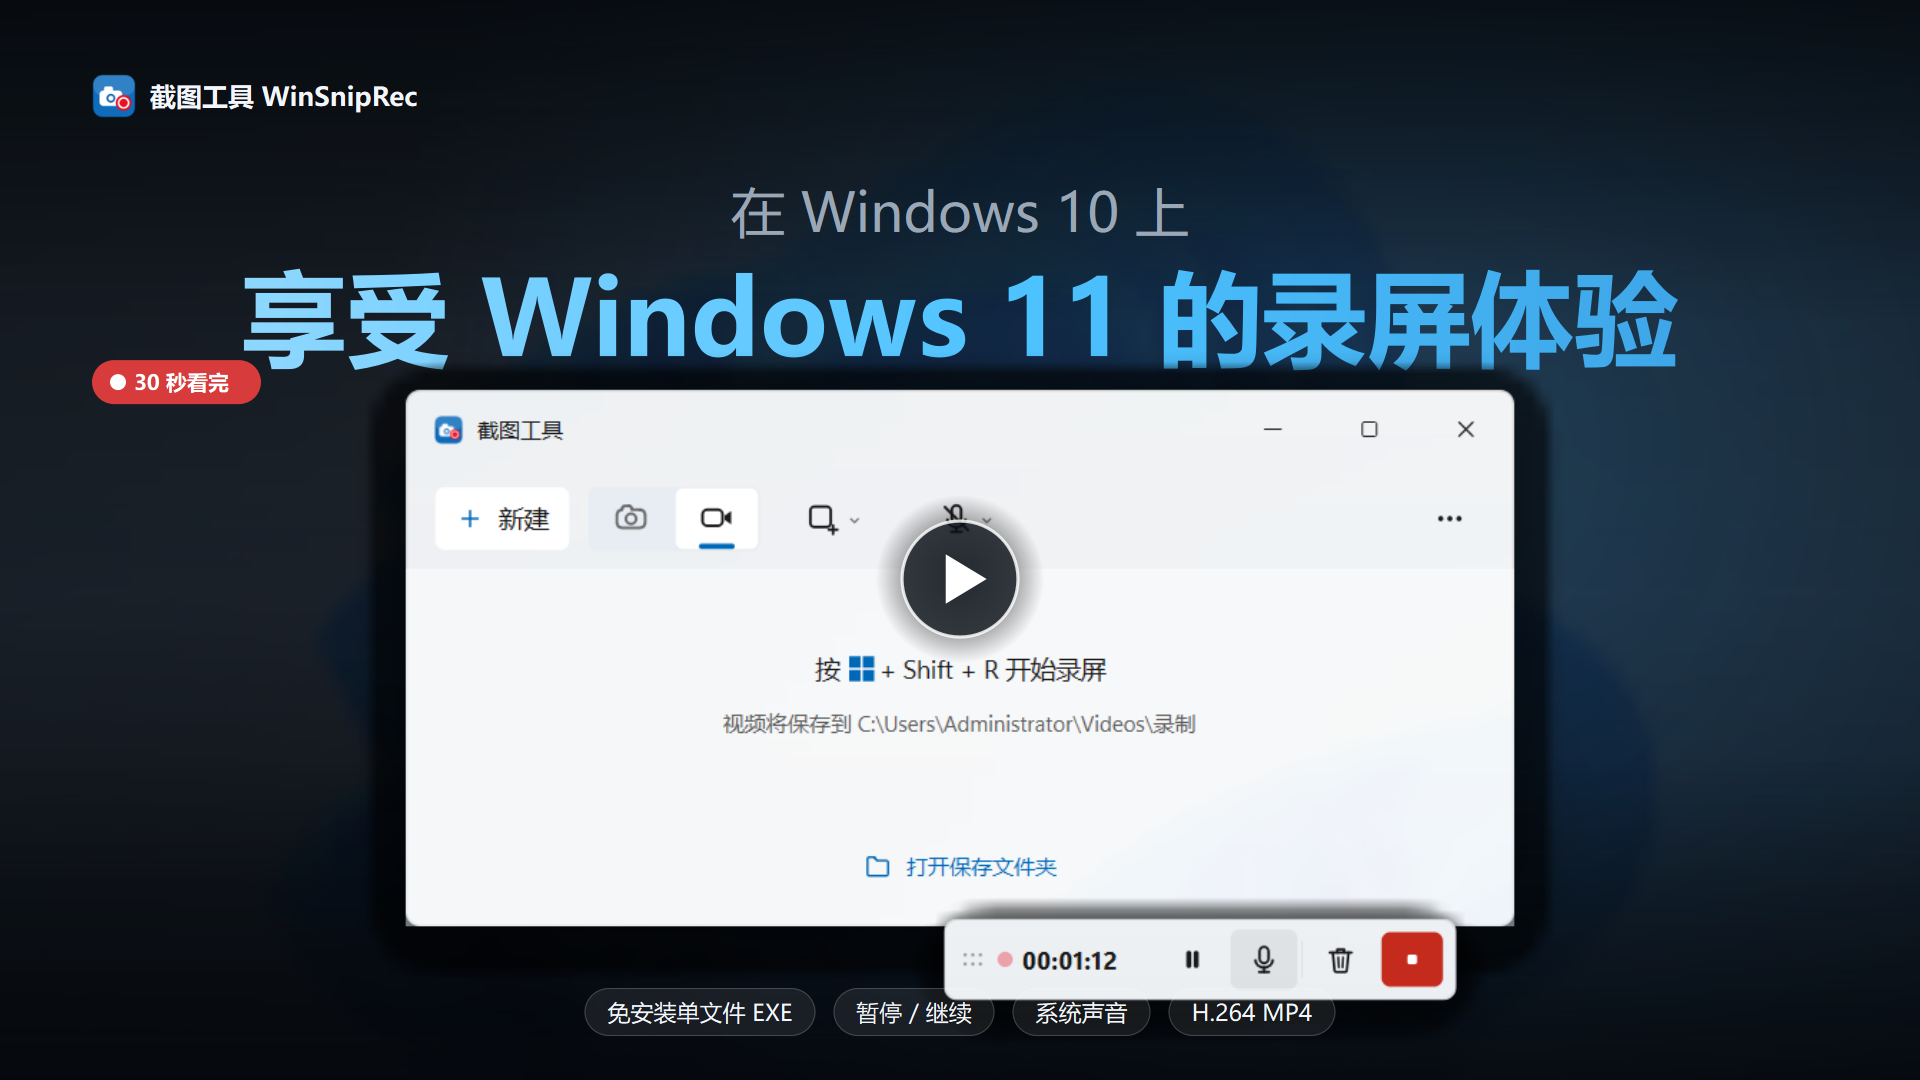
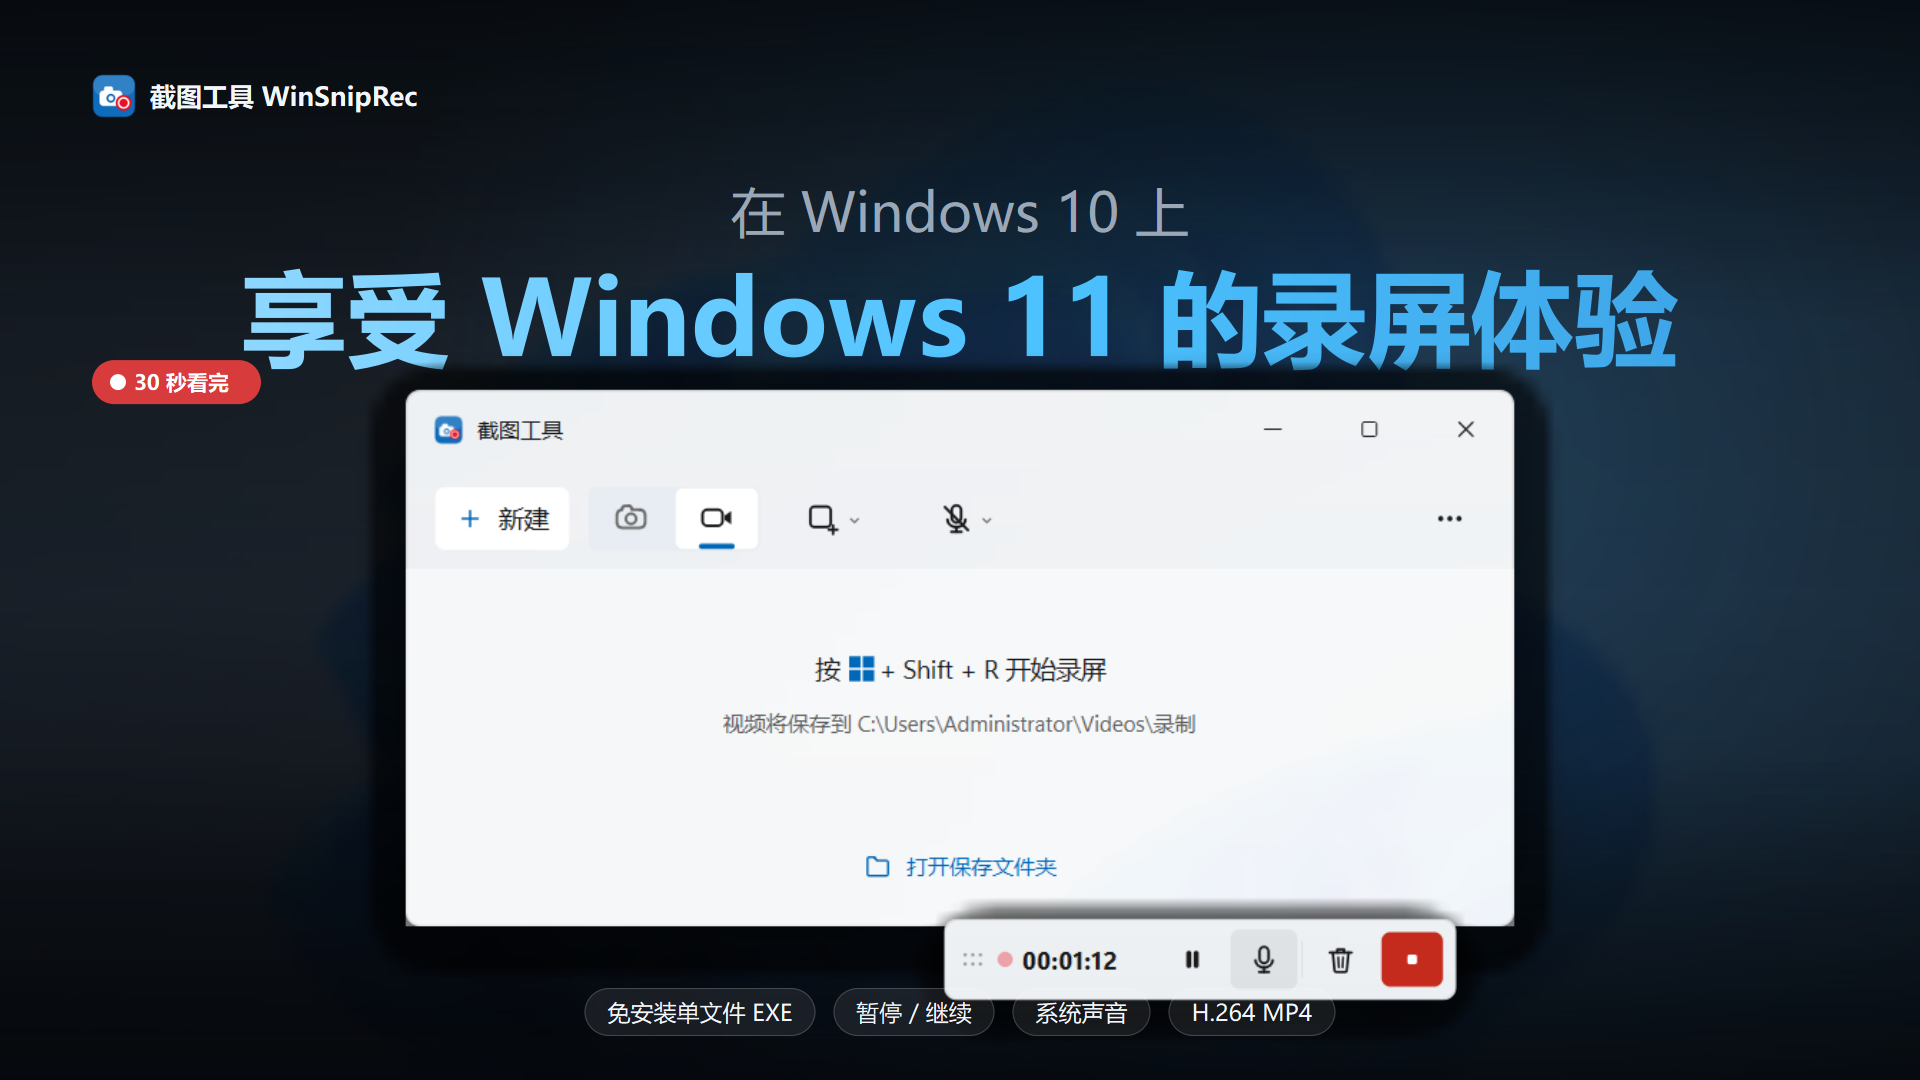
封面去掉中间的播放键
按反馈移除窗口中央的播放按钮：它压在应用的快捷键提示文字上，而且平台通常会
自己叠加播放按钮，重复了。默认不再绘制，需要时用 --play 打开。

同时只保留两张正式封面（16:9 / 4:3），删掉「无播放键」变体文件。

Changed region(s): [[0.4375, 0.4583, 0.5625, 0.6111]]

diff --git a/tools/make_video_cover.py b/tools/make_video_cover.py
@@ -3,9 +3,11 @@
 Both are built from the real UI screenshots and the same design tokens as the
 app, so the cover, the posters and the video all look like one family.
 
-Run:  .venv\\Scripts\\python.exe tools\\make_video_cover.py
+Run:  .venv\\Scripts\\python.exe tools\\make_video_cover.py [--play]
 Out:  promo/video/cover_16x9_1920x1080.png
       promo/video/cover_4x3_1440x1080.png
+
+The centre play badge is off by default; pass --play to draw it.
 """
 
 from __future__ import annotations
@@ -185,7 +187,7 @@ def vignette(painter: QPainter, width: int, height: int) -> None:
 
 
 # --------------------------------------------------------------------------- #
-def build_wide(play: bool = True) -> QImage:
+def build_wide(play: bool = False) -> QImage:
     width, height = 1920, 1080
     image = Poster(width, height).background()
     painter = QPainter(image)
@@ -223,7 +225,7 @@ def build_wide(play: bool = True) -> QImage:
     return image
 
 
-def build_four_three(play: bool = True) -> QImage:
+def build_four_three(play: bool = False) -> QImage:
     width, height = 1440, 1080
     image = Poster(width, height).background()
     painter = QPainter(image)
@@ -257,6 +259,13 @@ def build_four_three(play: bool = True) -> QImage:
 
 
 def main() -> int:
+    import argparse
+
+    parser = argparse.ArgumentParser(description="生成宣传视频封面")
+    parser.add_argument("--play", action="store_true",
+                        help="在窗口中央叠加播放按钮（默认不加）")
+    args = parser.parse_args()
+
     winapi.enable_per_monitor_dpi_awareness()
     app = QApplication(sys.argv)  # noqa: F841
     theme.mode = "dark"
@@ -264,13 +273,9 @@ def main() -> int:
     apply_app_theme(app)
 
     OUT.mkdir(parents=True, exist_ok=True)
-    # Two variants each: with a play badge (reads as a video at a glance) and
-    # without it, for platforms that draw their own play button on top.
     outputs = [
-        ("cover_16x9_1920x1080.png", build_wide(True)),
-        ("cover_16x9_1920x1080_无播放键.png", build_wide(False)),
-        ("cover_4x3_1440x1080.png", build_four_three(True)),
-        ("cover_4x3_1440x1080_无播放键.png", build_four_three(False)),
+        ("cover_16x9_1920x1080.png", build_wide(args.play)),
+        ("cover_4x3_1440x1080.png", build_four_three(args.play)),
     ]
     for name, image in outputs:
         path = OUT / name

diff --git a/README.md b/README.md
@@ -375,7 +375,11 @@ dist\截图工具\截图工具.exe --selftest-quit   :: 应在数秒内自行退
 .venv\Scripts\python.exe tools\make_promo_video.py            :: 渲染成片（约 76 秒）
 .venv\Scripts\python.exe tools\make_promo_video.py --preview  :: 只出 30 帧审阅网格
 .venv\Scripts\python.exe tools\make_video_cover.py            :: 生成 16:9 与 4:3 封面
+.venv\Scripts\python.exe tools\make_video_cover.py --play     :: 需要时在中间叠加播放按钮
 ```
+
+封面默认**不加**播放按钮（平台通常自己会画一个）。标题占满上半幅是为了缩略图尺寸下
+仍然读得清；右下压着录制控制条，一眼能看出是录屏工具而不是截图工具。
 
 **为什么不录屏**：本机 1080p 抓屏一帧要 112ms（上限 9fps），半透明窗口合成要数秒，
 真录出来会又卡又抖 —— 反而比软件实际表现差。逐帧合成可以做到精确 30fps、
@@ -387,10 +391,8 @@ dist\截图工具\截图工具.exe --selftest-quit   :: 应在数秒内自行退
 | `promo_1920x1080_30s.srt` | 字幕，时间轴与画面严格对齐 |
 | `storyboard.md` | 分镜表 + 音效节拍表 |
 | `contact_sheet.png` | 30 帧审阅网格（每秒 1 帧） |
-| `cover_16x9_1920x1080.png` | **视频封面 16:9**（带播放键，1920×1080） |
-| `cover_16x9_1920x1080_无播放键.png` | 同上，不带播放键（平台自己会画播放按钮时用） |
-| `cover_4x3_1440x1080.png` | **视频封面 4:3**（带播放键，1440×1080） |
-| `cover_4x3_1440x1080_无播放键.png` | 同上，不带播放键 |
+| `cover_16x9_1920x1080.png` | **视频封面 16:9**（1920×1080） |
+| `cover_4x3_1440x1080.png` | **视频封面 4:3**（1440×1080，单独排版，不是裁切） |
 | `sfx_track.wav` | 合成出来的 UI 音效轨（点击/滑动/提示/快门） |
 | `混入BGM.ps1` | 把你自己的 BGM 混进来（视频流不重编码） |
 
